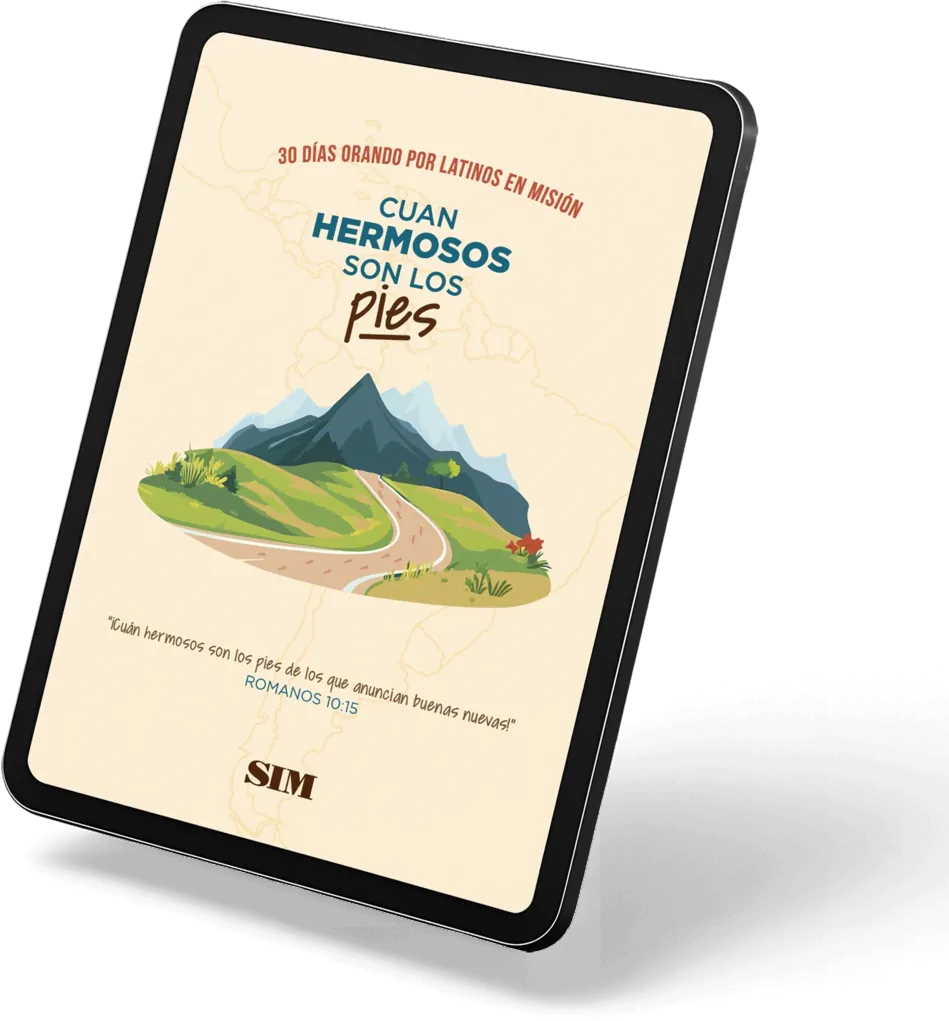
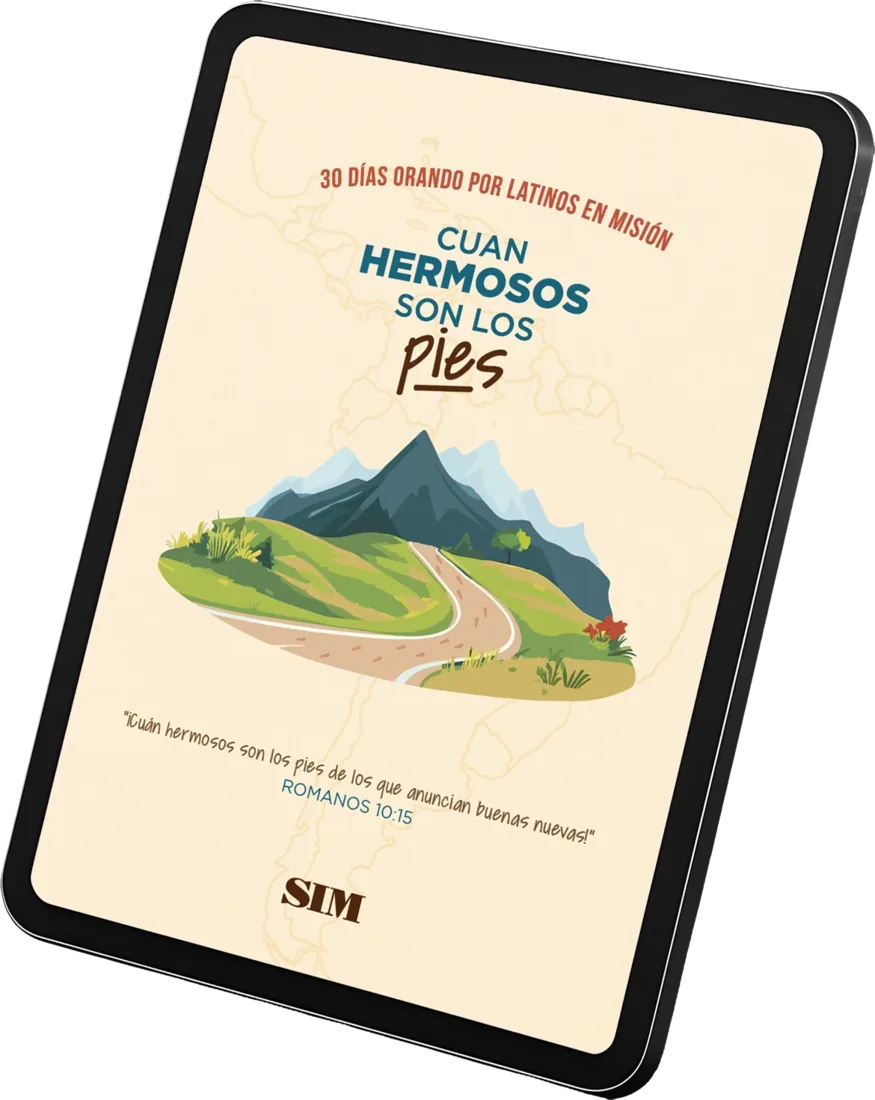
fix(hermosos-pies): use the shadow-free guide cover mockup
The previous mockup's backdrop and shadow showed as a grey box on the tan
band. The new export is fully transparent (WebP, 59 KB, 875x1100).

diff --git a/app/hermosos-pies/content.ts b/app/hermosos-pies/content.ts
@@ -11,8 +11,8 @@ import type { SpotifyEpisode } from "../_components/SpotifyEpisodes";
 export const GUIDE_COVER: { src: string; alt: string; width: number; height: number } | null = {
   src: "/hermosos-pies/guia-30-dias.webp",
   alt: "Portada de la guía «30 días orando por latinos en misión» en una tableta",
-  width: 949,
-  height: 1021,
+  width: 875,
+  height: 1100,
 };
 
 /** SIM Latinoamérica's WhatsApp channel. */
